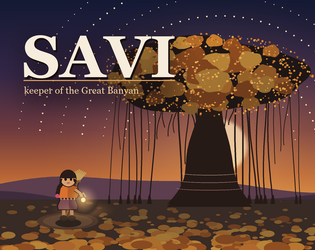
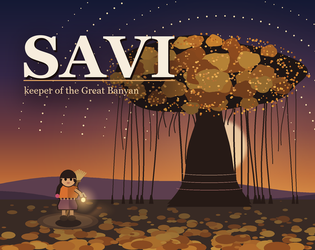
Three covers, at the sizes CrazyGames asks for
The itch cover is 630x500, which is itch's format and none of the three
CrazyGames requires: landscape 1920x1080, portrait 800x1200, square
800x800. Upscaling it was not an option - "Don't use blurry or
pixelated visuals" is one of their explicit rules.

make-cover.py already drew the thing procedurally, so the fix is to
make it aspect-aware rather than to repaint anything. Every placement
was already a fraction of the canvas; they move into a SIZES table and
a configure() that lays the composition out per aspect, because a 16:9
banner and a 2:3 portrait want the banyan in different places rather
than the same picture squashed. The title scales with the canvas
height instead of being a fixed 118pt.

Same seed for all four, so they are the same picture and read as a set
- CrazyGames asks for consistent visuals across the three.

The subtitle is dropped from their three and kept on itch's: "Don't
write anything else other than your game's title."

One thing needed a real decision rather than a reflow. At 1920 wide,
Savi drawn at itch's proportions was a speck - and a cover is judged as
a thumbnail in a grid, not at full size. She is scaled UP on the
landscape, not down, so she is the second thing you see after the tree.

diff --git a/savi/src/build.js b/savi/src/build.js
@@ -2,5 +2,5 @@
 // (the git pre-commit hook) on every commit that touches savi/ - do not edit by
 // hand. The title screen compares it with the copy on the server, so the phone
 // can say whether it is running what was just pushed.
-export const BUILD = 62;
-export const BUILT = '2026-10-17 14:27';
+export const BUILD = 63;
+export const BUILT = '2026-10-18 02:00';

diff --git a/savi/tools/make-cover.py b/savi/tools/make-cover.py
@@ -36,9 +36,76 @@ HERE = os.path.dirname(os.path.abspath(__file__))
 ROOT = os.path.dirname(HERE)
 OUT = os.path.join(ROOT, 'COVER.png')
 
-W, H = 630, 500
-S = 3
-WW, HH = W * S, H * S
+# --- the sizes this script renders -----------------------------------------
+#
+# itch wants one 630x500. CrazyGames wants THREE, at exact sizes, and will not
+# take an upscale: "Don't use blurry or pixelated visuals". So the composition
+# is laid out in fractions of the canvas and re-placed per aspect rather than
+# stretched - a 16:9 banner and a 2:3 portrait want the banyan in different
+# places, not the same picture squashed.
+#
+#   S   supersample. Pillow has no antialiasing of its own, so everything is
+#       drawn large and resampled down. Lower it on the big canvases or the
+#       1920 one is 5760px wide and slow for no visible gain.
+#
+#   tree / crown / savi / title are all fractions of the canvas.
+#
+# CrazyGames also says: no borders, no text but the game's title, no icons or
+# store logos. So the subtitle is dropped from their three and kept on itch's.
+SIZES = [
+    dict(name='COVER.png', w=630, h=500, s=3, sub=True,
+         tree=(0.665, 0.815), crown=(0.300, 0.150), crowny=0.300,
+         savi=(0.215, 0.880), savik=2.35, title=0.236, tpos=(0.070, 0.092)),
+
+    # CrazyGames landscape - 16:9. Wider than itch's, so the valley opens out:
+    # the tree moves right, Savi further left, and the crown spreads.
+    # Savi is scaled UP here, not down. The first pass used the same figure
+    # size as itch's and at 1920 wide she was a speck - and a cover is judged
+    # as a thumbnail in a grid, not at full size. She has to be the second
+    # thing you see after the tree.
+    dict(name='cover-landscape-1920x1080.png', w=1920, h=1080, s=2, sub=False,
+         tree=(0.705, 0.845), crown=(0.270, 0.160), crowny=0.315,
+         savi=(0.215, 0.885), savik=3.40, title=0.200, tpos=(0.055, 0.085)),
+
+    # CrazyGames portrait - 2:3. Tall and narrow: the tree stands centre and
+    # fills the height, Savi sits below it, the title rides the top.
+    dict(name='cover-portrait-800x1200.png', w=800, h=1200, s=3, sub=False,
+         tree=(0.520, 0.700), crown=(0.420, 0.110), crowny=0.330,
+         savi=(0.255, 0.790), savik=2.60, title=0.150, tpos=(0.080, 0.070)),
+
+    # CrazyGames square - 1:1.
+    dict(name='cover-square-800x800.png', w=800, h=800, s=3, sub=False,
+         tree=(0.640, 0.800), crown=(0.330, 0.145), crowny=0.305,
+         savi=(0.225, 0.875), savik=2.45, title=0.195, tpos=(0.070, 0.085)),
+]
+
+# Set by configure() before each render. The drawing functions below read them.
+W = H = S = WW = HH = 0
+TX = TY = CX = CY = CRX = CRY = 0
+TITLE_PT = 0
+TPOS = (0.0, 0.0)
+SUBTITLE = True
+SAVI_AT = (0.0, 0.0)
+SAVI_K = 1.0
+
+
+def configure(c):
+    """Lay the composition out for one canvas size."""
+    global W, H, S, WW, HH, TX, TY, CX, CY, CRX, CRY
+    global TITLE_PT, TPOS, SUBTITLE, SAVI_AT, SAVI_K, rng
+    W, H, S = c['w'], c['h'], c['s']
+    WW, HH = W * S, H * S
+    TX, TY = WW * c['tree'][0], HH * c['tree'][1]
+    CX, CY = TX - WW * 0.012, HH * c['crowny']
+    CRX, CRY = WW * c['crown'][0], HH * c['crown'][1]
+    TITLE_PT = int(H * c['title'] * S)
+    TPOS = c['tpos']
+    SUBTITLE = c['sub']
+    SAVI_AT = (WW * c['savi'][0], HH * c['savi'][1])
+    SAVI_K = S * c['savik']
+    # Same seed every time, so the four covers are the same picture and read
+    # as a set - which CrazyGames asks for ("consistent visuals").
+    rng = random.Random(11)
 
 FONTS = r'C:\Windows\Fonts'
 TITLE_F = os.path.join(FONTS, 'georgiab.ttf')
@@ -55,11 +122,6 @@ BOOT = (58, 43, 34)
 LEAF = [(201, 118, 44), (224, 161, 63), (165, 85, 31), (217, 138, 48)]
 BARK = (38, 26, 22)
 CREAM = (247, 237, 221)
-
-# Where the tree stands and how big it is. Everything else is placed off this.
-TX, TY = WW * 0.665, HH * 0.815          # the foot of the trunk
-CX, CY = TX - WW * 0.012, HH * 0.300     # the middle of the crown
-CRX, CRY = WW * 0.310, HH * 0.150        # how far the crown reaches
 
 rng = random.Random(11)
 
@@ -368,28 +430,36 @@ def lantern_light(at, k):
 
 
 def title(img):
+    """The wordmark. Sized and placed as a fraction of the canvas.
+
+    CrazyGames: "Don't write anything else other than your game's title", so
+    the subtitle only goes on itch's cover.
+    """
     d = ImageDraw.Draw(img)
-    f = ImageFont.truetype(TITLE_F, int(118 * S))
-    fs = ImageFont.truetype(SUB_F, int(19 * S))
-    x, y = int(44 * S), int(46 * S)
+    f = ImageFont.truetype(TITLE_F, TITLE_PT)
+    x, y = int(WW * TPOS[0]), int(HH * TPOS[1])
     b = d.textbbox((x, y), 'SAVI', font=f)
+    u = TITLE_PT / 118.0          # one "point" of the original 118pt layout
 
     # A soft dark wash behind it, so cream letters hold over a bright sky
     # without a box being drawn round them.
     sh = Image.new('L', (WW, HH), 0)
     ImageDraw.Draw(sh).text((x, y), 'SAVI', font=f, fill=200)
-    ImageDraw.Draw(sh).rectangle([x, b[3] + 4 * S, b[2], b[3] + 50 * S], fill=120)
-    sh = sh.filter(ImageFilter.GaussianBlur(20 * S))
+    ImageDraw.Draw(sh).rectangle([x, b[3] + 4 * u, b[2], b[3] + 50 * u], fill=120)
+    sh = sh.filter(ImageFilter.GaussianBlur(20 * u))
     img.paste(Image.new('RGB', (WW, HH), (20, 12, 16)), (0, 0), sh)
 
-    d.text((x + 3 * S, y + 4 * S), 'SAVI', font=f, fill=(24, 13, 12))
+    d.text((x + 3 * u, y + 4 * u), 'SAVI', font=f, fill=(24, 13, 12))
     d.text((x, y), 'SAVI', font=f, fill=CREAM)
-    ly = b[3] + int(4 * S)
-    d.line([(x + 3 * S, ly), (b[2] - 3 * S, ly)], fill=(230, 166, 96), width=int(2.2 * S))
-    d.text((x + 4 * S, ly + int(9 * S)), 'keeper of the Great Banyan', font=fs, fill=(243, 212, 168))
+    ly = b[3] + int(4 * u)
+    d.line([(x + 3 * u, ly), (b[2] - 3 * u, ly)], fill=(230, 166, 96), width=max(1, int(2.2 * u)))
+    if SUBTITLE:
+        fs = ImageFont.truetype(SUB_F, max(8, int(19 * u)))
+        d.text((x + 4 * u, ly + int(9 * u)), 'keeper of the Great Banyan', font=fs, fill=(243, 212, 168))
 
 
-def main():
+def render(c):
+    configure(c)
     img = Image.new('RGB', (WW, HH), (20, 25, 52))
     sky(img)
     img = ImageChops.screen(img, sunlight())
@@ -399,9 +469,9 @@ def main():
     ground(d)
     banyan(d)
 
-    sx, sy, sk = WW * 0.215, HH * 0.880, S * 2.35
-    at = savi(d, sx, sy, sk)
-    img = ImageChops.screen(img, lantern_light(at, sk))
+    sx, sy = SAVI_AT
+    at = savi(d, sx, sy, SAVI_K)
+    img = ImageChops.screen(img, lantern_light(at, SAVI_K))
 
     vig = Image.new('L', (WW, HH), 0)
     ImageDraw.Draw(vig).ellipse([-WW * 0.26, -HH * 0.34, WW * 1.26, HH * 1.34], fill=255)
@@ -411,9 +481,22 @@ def main():
     title(img)
 
     out = img.resize((W, H), Image.LANCZOS)
-    out.save(OUT)
-    out.resize((W // 2, H // 2), Image.LANCZOS).save(os.path.join(ROOT, 'COVER-thumb.png'))
-    print('%s  %dx%d  %.0f KB' % (OUT, out.width, out.height, os.path.getsize(OUT) / 1024))
+    path = os.path.join(ROOT, c['name'])
+    out.save(path)
+    print('  %-34s %4dx%-4d  %5.0f KB' % (c['name'], out.width, out.height,
+                                          os.path.getsize(path) / 1024))
+    return out
+
+
+def main():
+    print('covers:')
+    for c in SIZES:
+        out = render(c)
+        if c['name'] == 'COVER.png':
+            out.resize((c['w'] // 2, c['h'] // 2), Image.LANCZOS).save(
+                os.path.join(ROOT, 'COVER-thumb.png'))
+    print('')
+    print('itch: COVER.png.  CrazyGames: the three cover-*.png.')
 
 
 if __name__ == '__main__':
